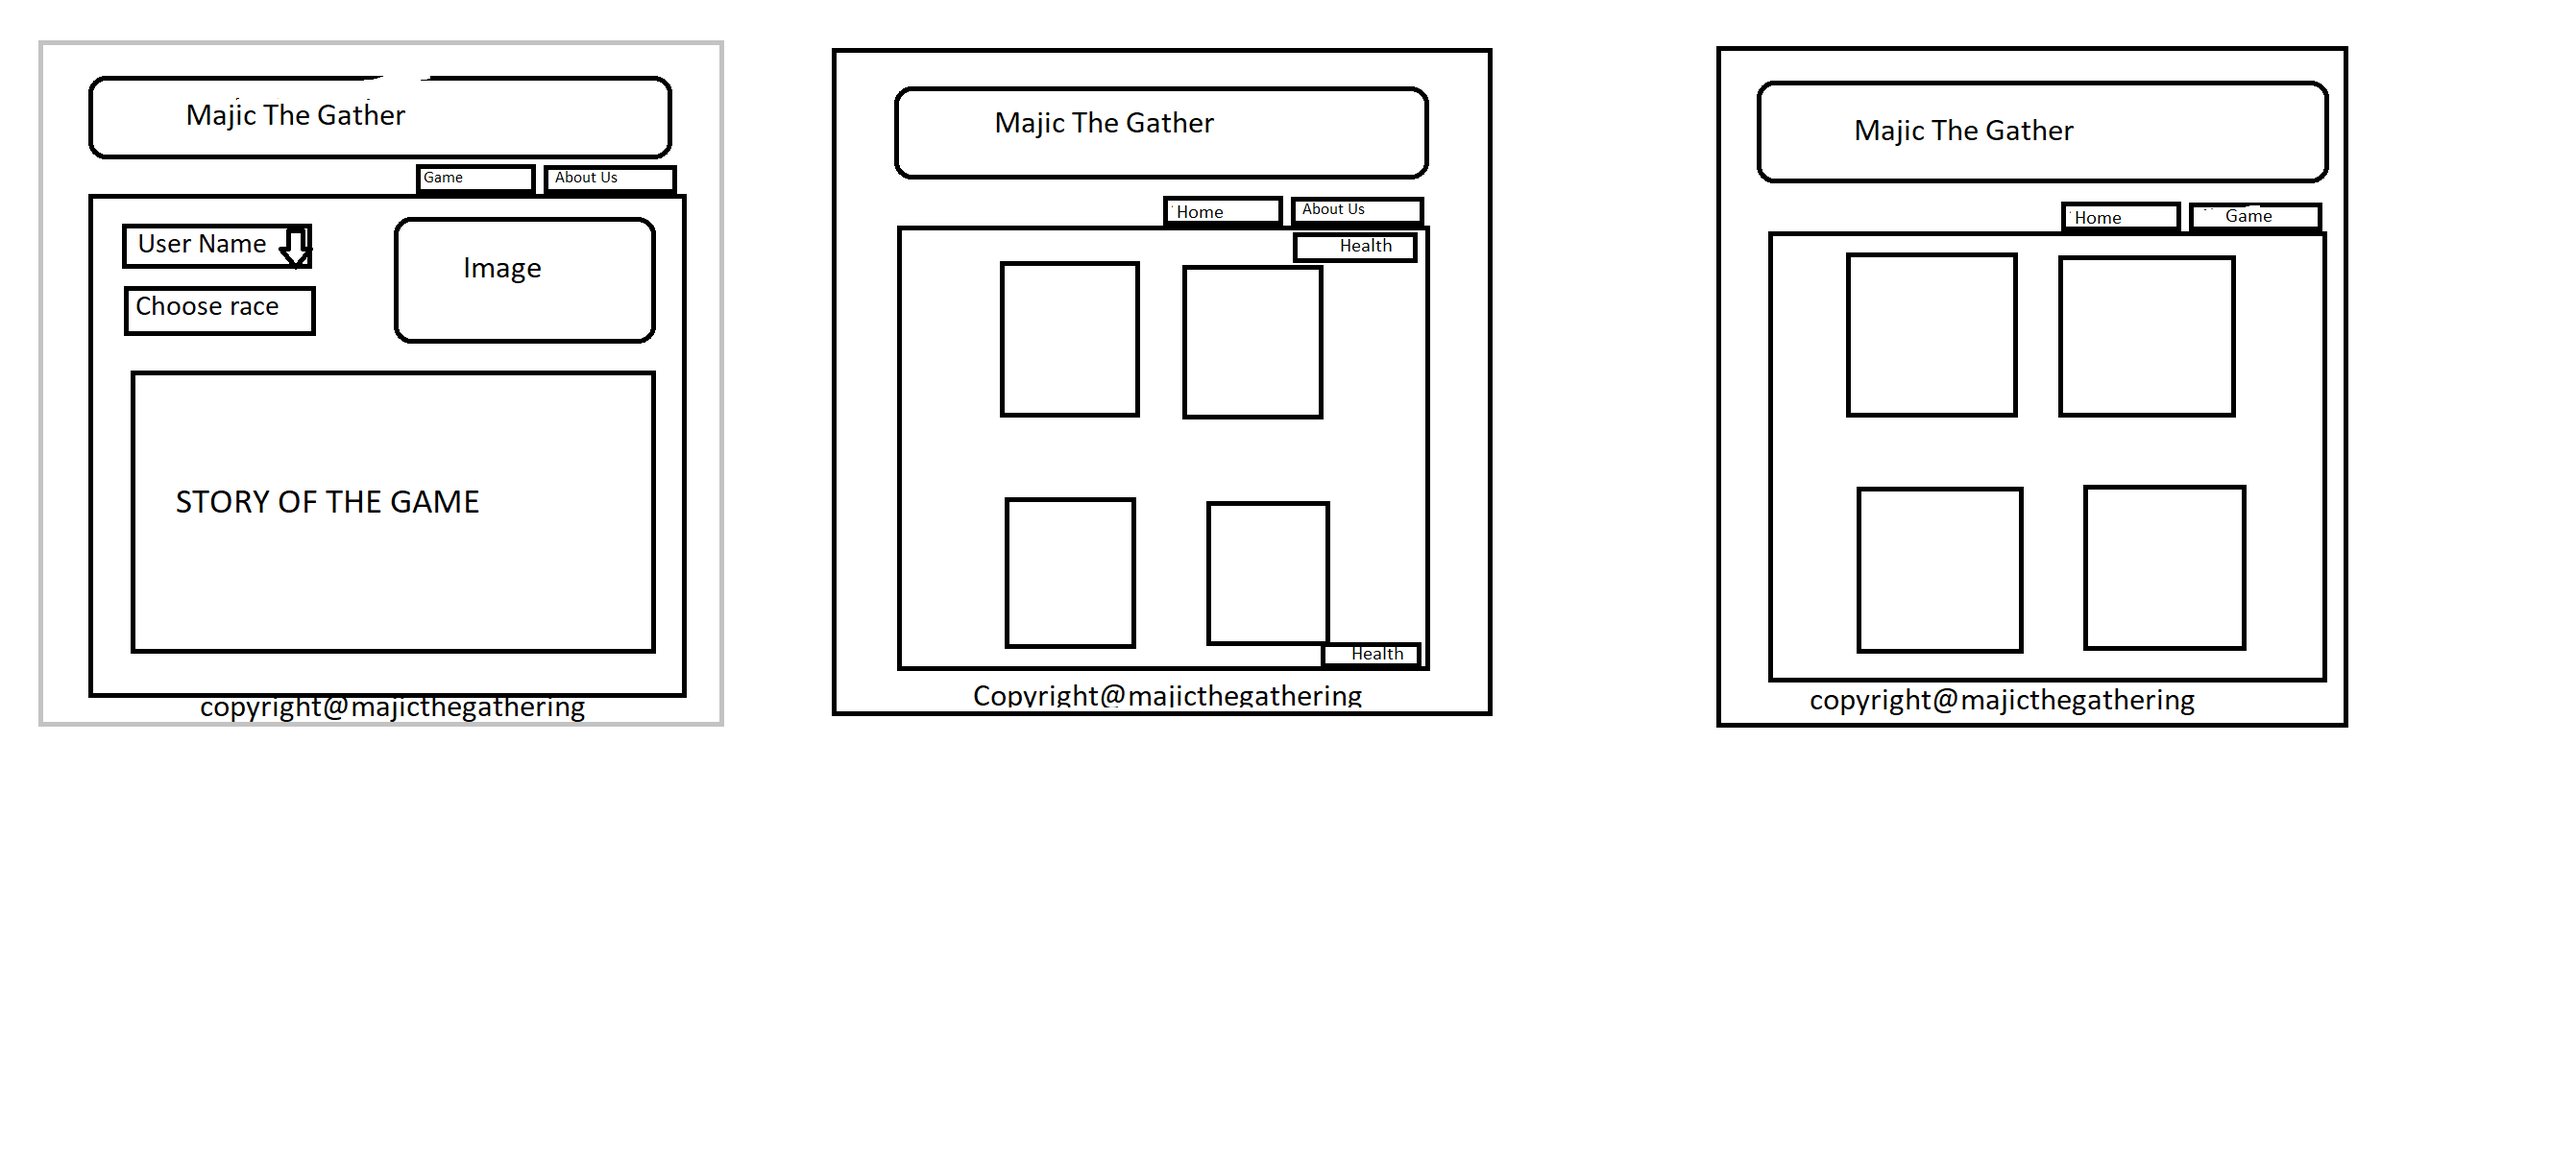
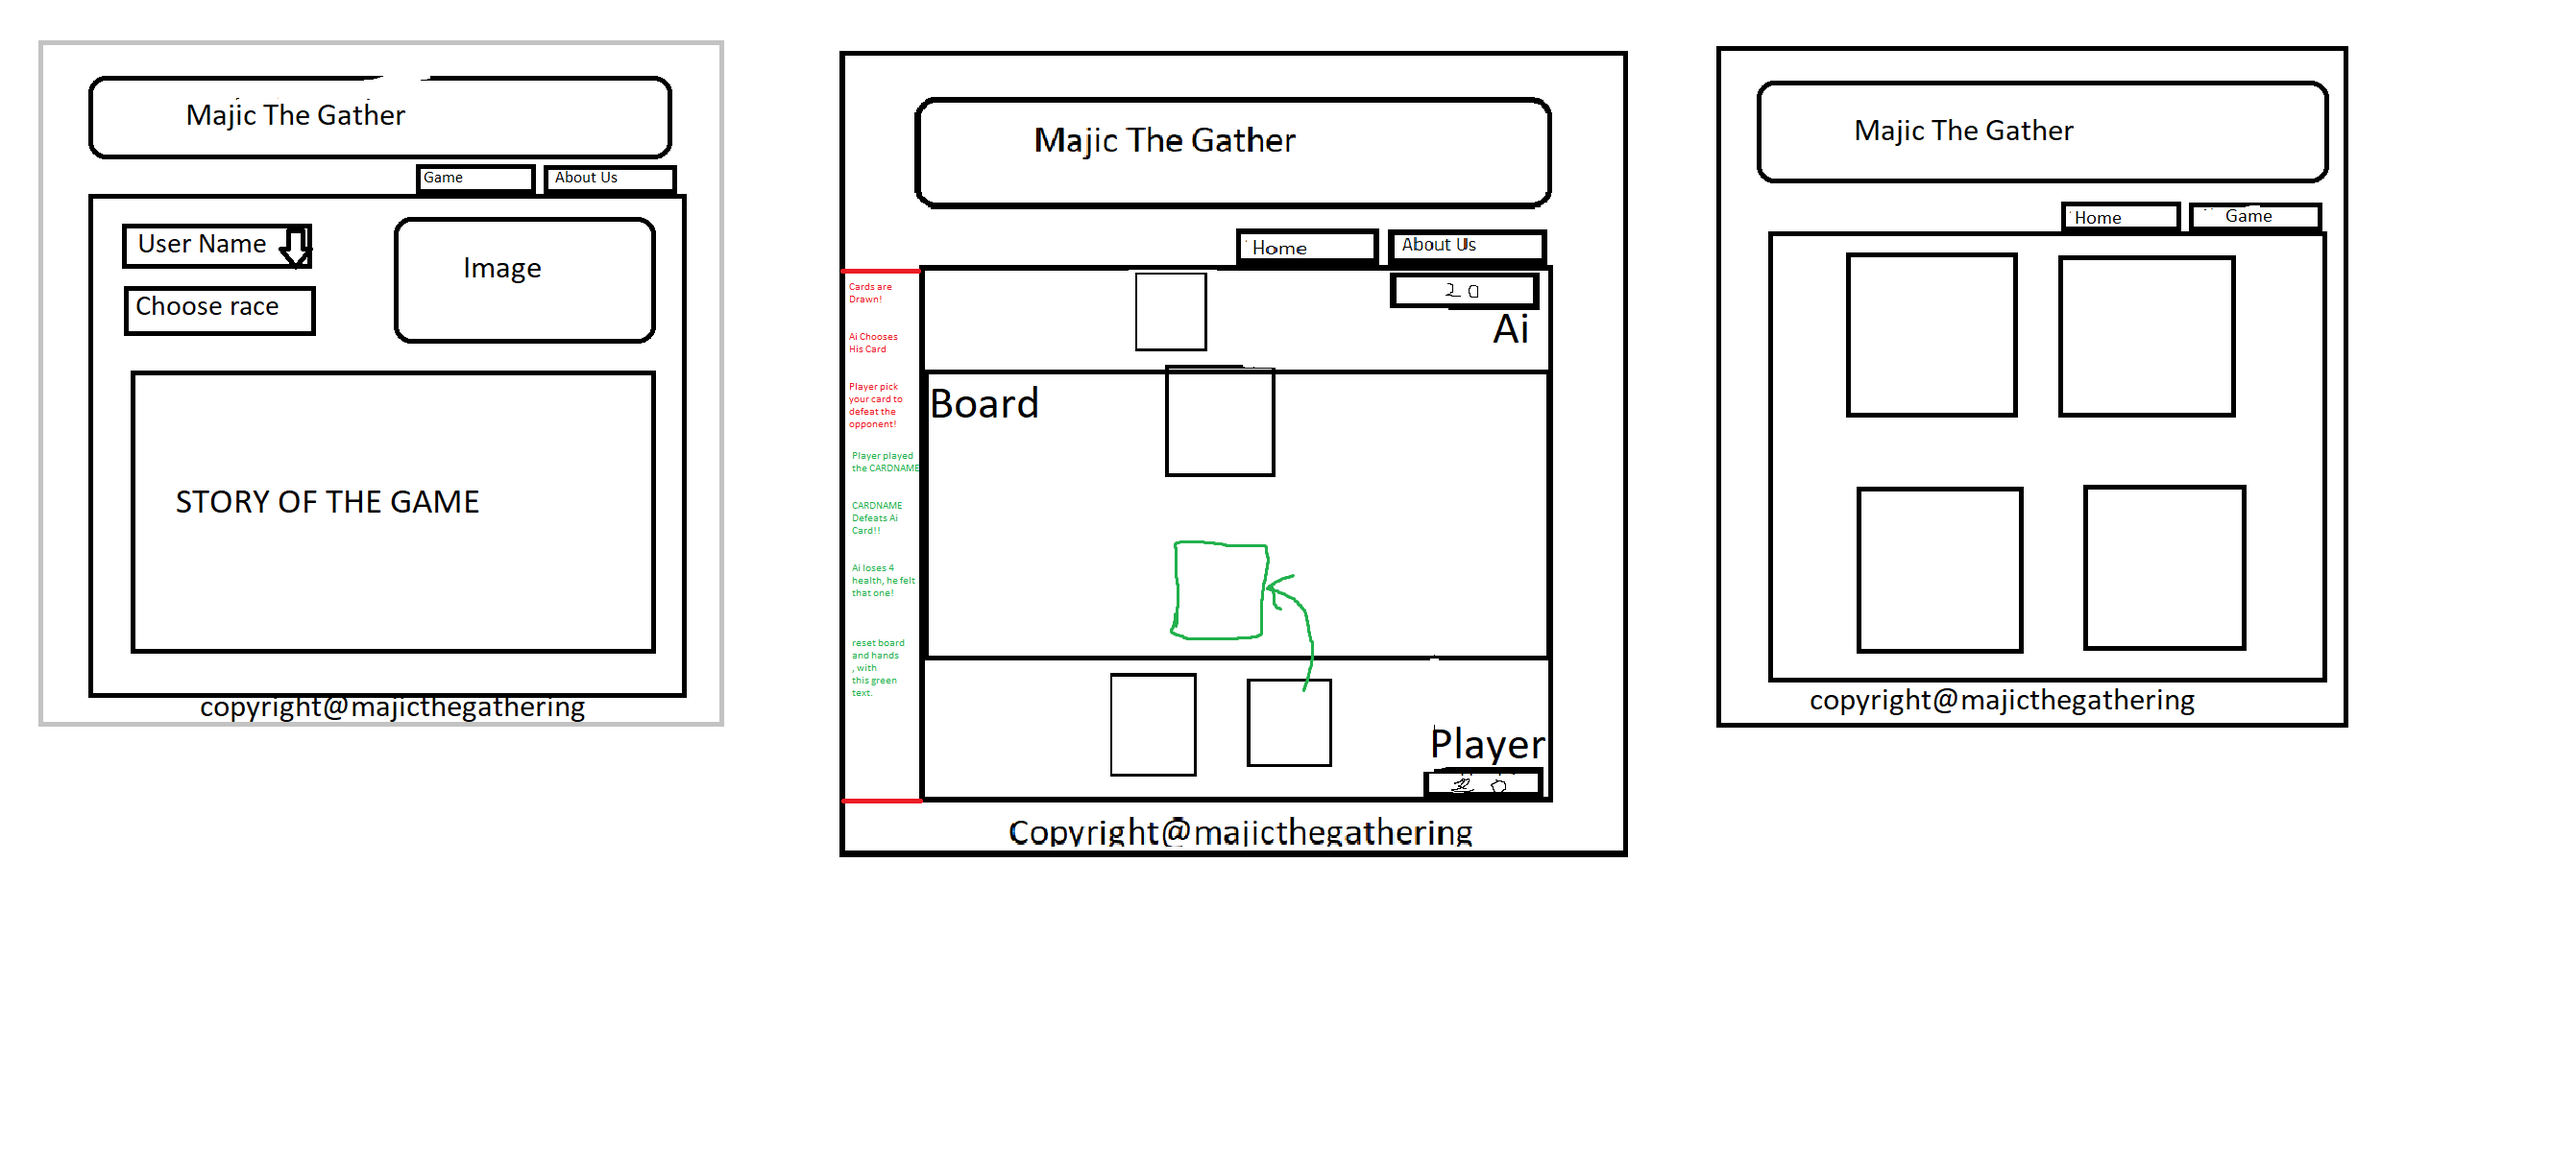
Fixed linked in md files and updated wireframe picture

Changed region(s): [[0.3095, 0.0309, 0.6189, 0.7721]]

diff --git a/README.md b/README.md
@@ -20,5 +20,5 @@ Code Fellows
 ## Domain Model
 ![Domain Model](./img/domainModeling.png)
 
-[Go To Requirements.md](../requirements.md)
+[Go To Requirements.md](./requirements.md)
 # Comments

diff --git a/requirements.md b/requirements.md
@@ -63,4 +63,4 @@ The data flow in this app
 
 ### Stretch Goals: It will then add the amount of wins or loses to keep score on the Users settings section.
 
-
+[Go to README.md](./README.md)
